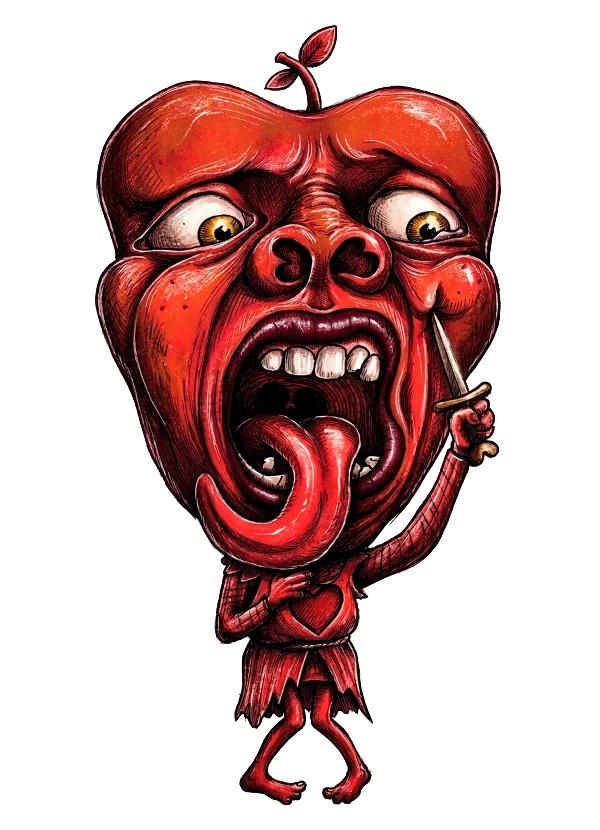
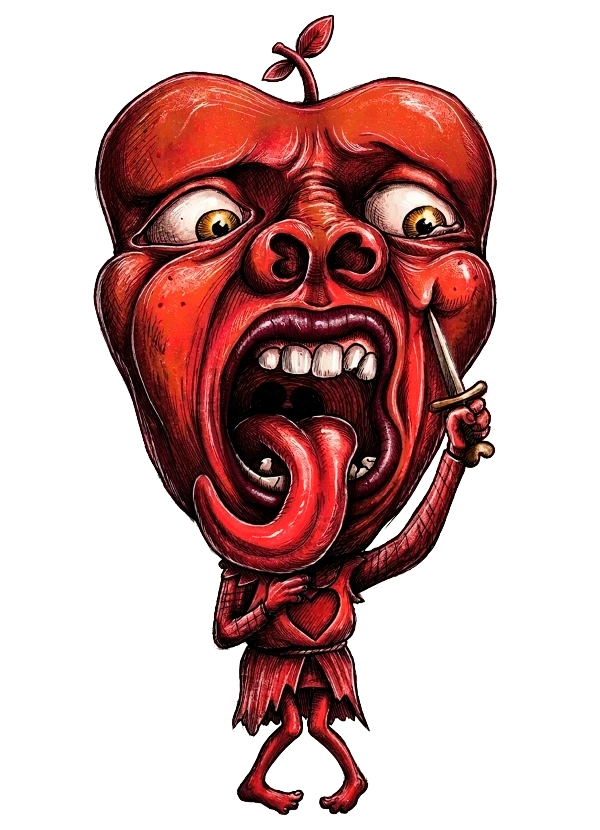
Valetes de Espadas e Copas na posição do mockup (tela inteira do desenho vira a carta)

Changed region(s): [[0.15, 0.0, 0.84, 0.994]]

diff --git a/index.html b/index.html
@@ -14,7 +14,7 @@
   <link rel="preload" href="arte/menu/papelao.webp" as="image">
   <link rel="preload" href="arte/menu/naipes.webp" as="image">
   <link rel="preload" href="arte/menu/logo.webp" as="image">
-  <link rel="stylesheet" href="estilo.css?v=202610280104">
+  <link rel="stylesheet" href="estilo.css?v=202610281047">
 </head>
 <body>
   <div id="palco">
@@ -67,20 +67,20 @@
   <div id="modal" hidden></div>
   <div id="dica" hidden></div>
 
-  <script defer src="js/idioma.js?v=202610280104"></script>
-  <script defer src="js/libs.js?v=202610280104"></script>
-  <script defer src="js/motor.js?v=202610280104"></script>
-  <script defer src="js/palhacos.js?v=202610280104"></script>
-  <script defer src="js/pesos.js?v=202610280104"></script>
-  <script defer src="js/bot.js?v=202610280104"></script>
-  <script defer src="js/cartas.js?v=202610280104"></script>
-  <script defer src="js/som.js?v=202610280104"></script>
-  <script defer src="js/dados3d.js?v=202610280104"></script>
-  <script defer src="js/decks.js?v=202610280104"></script>
-  <script defer src="js/regras.js?v=202610280104"></script>
-  <script defer src="js/rede.js?v=202610280104"></script>
-  <script defer src="js/decoracao.js?v=202610280104"></script>
-  <script defer src="js/tutorial.js?v=202610280104"></script>
-  <script defer src="js/interface.js?v=202610280104"></script>
+  <script defer src="js/idioma.js?v=202610281047"></script>
+  <script defer src="js/libs.js?v=202610281047"></script>
+  <script defer src="js/motor.js?v=202610281047"></script>
+  <script defer src="js/palhacos.js?v=202610281047"></script>
+  <script defer src="js/pesos.js?v=202610281047"></script>
+  <script defer src="js/bot.js?v=202610281047"></script>
+  <script defer src="js/cartas.js?v=202610281047"></script>
+  <script defer src="js/som.js?v=202610281047"></script>
+  <script defer src="js/dados3d.js?v=202610281047"></script>
+  <script defer src="js/decks.js?v=202610281047"></script>
+  <script defer src="js/regras.js?v=202610281047"></script>
+  <script defer src="js/rede.js?v=202610281047"></script>
+  <script defer src="js/decoracao.js?v=202610281047"></script>
+  <script defer src="js/tutorial.js?v=202610281047"></script>
+  <script defer src="js/interface.js?v=202610281047"></script>
 </body>
 </html>

diff --git a/js/cartas.js b/js/cartas.js
@@ -2,9 +2,9 @@
    nas posições clássicas do baralho. As figuras com arte própria (arte/cartas/senhores/<rank>-<naipe>.webp) usam o desenho
    no lugar do placeholder; a letra e o naipe dos cantos continuam por cima.
    Para usar a arte final de uma carta, registre a imagem em SS.ARTE (chave = rank-naipe), como as de baixo.
-   A arte é desenhada no mesmo quadro do template do fundo (1792 × 2400) e convertida no tamanho da carta (600 × 830) com o
-   quadro do template (x 92–1682, y 102–2301) ocupando a carta inteira, assim o desenho passa por cima da moldura como no
-   template. Se o desenho sair da carta, a conversão o encolhe só o necessário para caber inteiro (dentro da borda preta). */
+   A arte vem do arquivo de desenho do Leonardo (1792 × 2400, com a moldura esticada até quase a tela inteira): a tela toda
+   vira a carta (600 × 830), e o desenho fica na mesma posição do mockup dele. Se algo sair da carta, a conversão o encolhe
+   só o necessário para caber inteiro (dentro da borda preta). */
 window.SS = window.SS || {};
 (function (SS) {
   'use strict';
@@ -28,7 +28,7 @@ window.SS = window.SS || {};
   // Borda preta na beirada da carta: a do desenho é fina demais (cerca de 1 px numa carta da mão) e sumia.
   const BORDA = '<rect x="2.2" y="2.2" width="195.6" height="275.6" rx="15" fill="none" stroke="#141414" stroke-width="4.5"/>';
   // Versão das imagens das cartas (trocar quando um arquivo mudar com o mesmo nome, para o navegador não usar o antigo).
-  const V_ARTE = '?v=5';
+  const V_ARTE = '?v=7';
 
   // Fundo da carta: uma das 4 variações desenhadas, sempre a mesma para a mesma carta (rank + naipe).
   const FUNDOS = ['a', 'b', 'c', 'd'];
